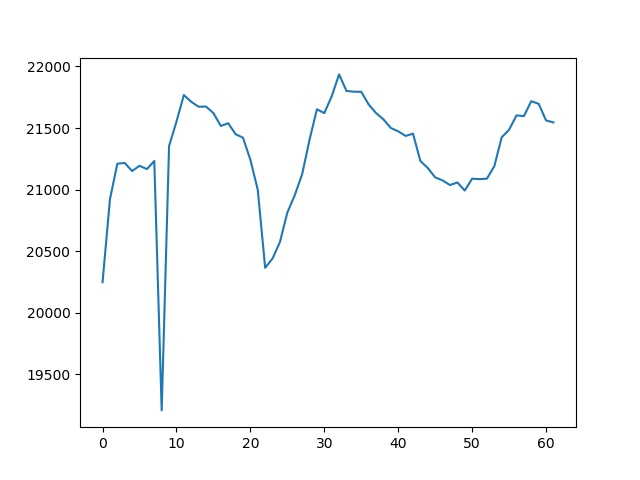
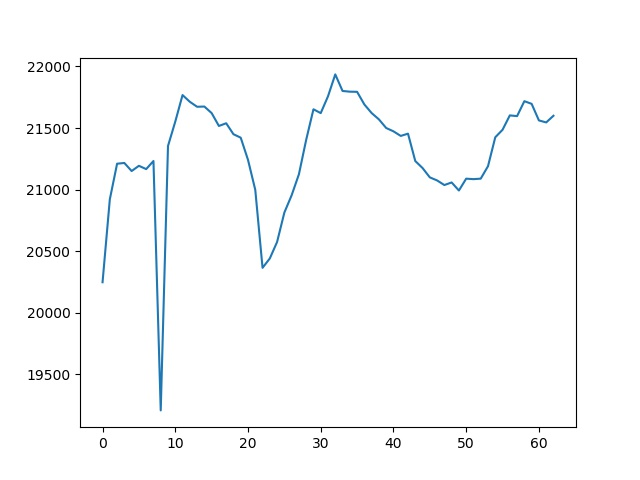
'auto'

diff --git a/README.md b/README.md
@@ -1,5 +1,5 @@
 Frizider live: 5
-21545.4 
+21599.483333333334 
 0
 Temperatura:
 
